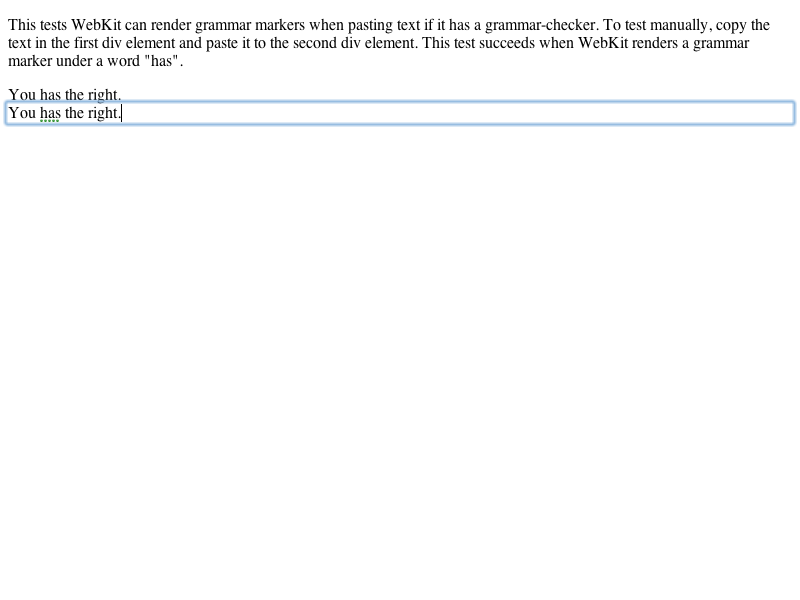
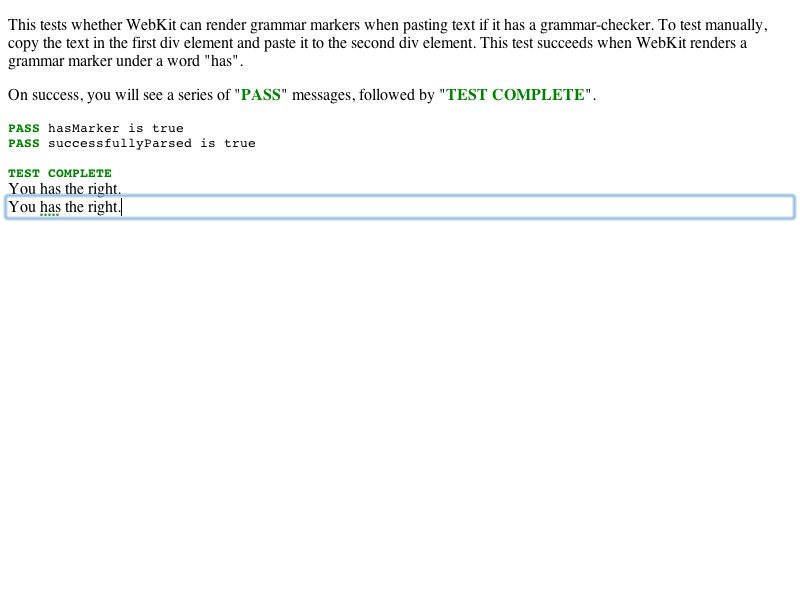
grammar-markers.html and grammar-markers-hidpi.html pass even if element does not have grammar marker https://bugs.webkit.org/show_bug.cgi?id=119797
Reviewed by Ryosuke Niwa.

After tenth attempts of verifying the grammar marker, the tests call'notifyDone'
even if grammar marker was not be found.

Both grammar-marker.html and grammar-marker-hidpi.html call the text checker
asynchronously. Therefore, we need to wait until either the grammar marker
is found or number of attempts is reached.

Dump more information whether the grammar marker was found to be sure that
the tests do not pass when the element does not have the marker.

* editing/spelling/grammar-markers-expected.txt:
* editing/spelling/grammar-markers-hidpi-expected.txt:
Update the expectations.

* editing/spelling/grammar-markers-hidpi.html:
* editing/spelling/grammar-markers.html:
Dump more information.
Additionally, pass 'document' to hasGrammarMarker instead of
'target' as the method does not work for target/source elements.

* platform/mac/editing/spelling/grammar-markers-expected.png:
* platform/mac/editing/spelling/grammar-markers-hidpi-expected.png: Added.
Update the expectations for Mac.

Identifier: 138321@main
git-svn-id: https://svn.webkit.org/repository/webkit/trunk@154675 268f45cc-cd09-0410-ab3c-d52691b4dbfc

Changed region(s): [[0.0, 0.15, 1.0, 0.39], [0.0, 0.03, 0.9688, 0.12]]

diff --git a/LayoutTests/editing/spelling/grammar-markers.html b/LayoutTests/editing/spelling/grammar-markers.html
@@ -1,16 +1,24 @@
 <!DOCTYPE html>
 <html>
+<head>
+<script src="../../fast/js/resources/js-test-pre.js"></script>
+</head>
 <body>
-<p>This tests WebKit can render grammar markers when pasting text if it has a grammar-checker. To test manually, copy the text in the first div element and paste it to the second div element. This test succeeds when WebKit renders a grammar marker under a word "has".</p>
 <div id="source" contenteditable="true" spellcheck="false">You has the right.</div>
 <div id="target" contenteditable="true" spellcheck="true"></div>
+
 <script>
+description('This tests whether WebKit can render grammar markers when pasting text if it has a grammar-checker. To test manually, copy the text in the first div element and paste it to the second div element. This test succeeds when WebKit renders a grammar marker under a word "has".');
+
+if (window.internals) {
+    window.jsTestIsAsync = true;
+    internals.settings.setAsynchronousSpellCheckingEnabled(true);
+}
+
 if (window.testRunner) {
     testRunner.waitUntilDone();
     testRunner.dumpAsText(true);
 }
-if (window.internals)
-    internals.settings.setAsynchronousSpellCheckingEnabled(true);
 
 var source = document.getElementById('source');
 window.getSelection().selectAllChildren(source);
@@ -19,17 +27,29 @@ var target = document.getElementById('target');
 window.getSelection().selectAllChildren(target);
 document.execCommand('Paste');
 
-var retry = 10;
-function trial() {
-    var hasMarker = internals.hasGrammarMarker(target, 4, 3);
-    if (hasMarker || --retry == 0) {
-        if (window.testRunner)
-            testRunner.notifyDone();
+var retryCount = 10;
+var sleepPeriod = 1;
+var ungrammaticalPhrase = 'has';
+var hasMarker;
+function verifyMarker() {
+    hasMarker = internals.hasGrammarMarker(document, target.innerHTML.indexOf(ungrammaticalPhrase), ungrammaticalPhrase.length);
+    if (!hasMarker && --retryCount > 0) {
+        sleepPeriod *= 2;
+        window.setTimeout(verifyMarker, sleepPeriod);
         return;
     }
-    window.setTimeout(trial, 10);
+
+    shouldBeTrue('hasMarker');
+
+    if (window.testRunner) {
+        finishJSTest();
+        testRunner.notifyDone();
+    }
 };
-trial();
+
+window.setTimeout(verifyMarker, sleepPeriod);
+
 </script>
+<script src="../../fast/js/resources/js-test-post.js"></script>
 </body>
 </html>

diff --git a/LayoutTests/editing/spelling/grammar-markers-hidpi.html b/LayoutTests/editing/spelling/grammar-markers-hidpi.html
@@ -1,17 +1,45 @@
 <!DOCTYPE html>
 <html>
+<head>
+<script src="../../fast/js/resources/js-test-pre.js"></script>
+</head>
 <body>
-<p>This tests WebKit can render grammar markers when pasting text if it has a grammar-checker. To test manually, copy the text in the first div element and paste it to the second div element. This test succeeds when WebKit renders a grammar marker under a word "has".</p>
 <div id="source" contenteditable="true" spellcheck="false">You has the right.</div>
 <div id="target" contenteditable="true" spellcheck="true"></div>
+
 <script>
-if (window.internals)
+description('This tests whether WebKit can render grammar markers when pasting text if it has a grammar-checker. To test manually, copy the text in the first div element and paste it to the second div element. This test succeeds when WebKit renders a grammar marker under a word "has".');
+
+if (window.internals) {
+    window.jsTestIsAsync = true;
     internals.settings.setAsynchronousSpellCheckingEnabled(true);
+}
+
+var retryCount = 10;
+var sleepPeriod = 1;
+var ungrammaticalPhrase = 'has';
+var hasMarker;
+function verifyMarker() {
+    hasMarker = internals.hasGrammarMarker(document, target.innerHTML.indexOf(ungrammaticalPhrase), ungrammaticalPhrase.length);
+    if (!hasMarker && --retryCount > 0) {
+        sleepPeriod *= 2;
+        window.setTimeout(verifyMarker, sleepPeriod);
+        return;
+    }
+
+    shouldBeTrue('hasMarker');
+
+    if (window.testRunner) {
+        finishJSTest();
+        testRunner.notifyDone();
+    }
+};
+
 if (window.testRunner) {
     testRunner.waitUntilDone();
     testRunner.dumpAsText(true);
     testRunner.setBackingScaleFactor(2, function () {
-        trial();
+        verifyMarker();
     });
 }
 
@@ -22,16 +50,7 @@ var target = document.getElementById('target');
 window.getSelection().selectAllChildren(target);
 document.execCommand('Paste');
 
-var retry = 10;
-function trial() {
-    var hasMarker = internals.hasGrammarMarker(target, 4, 3);
-    if (hasMarker || --retry == 0) {
-        if (window.testRunner)
-            testRunner.notifyDone();
-        return;
-    }
-    window.setTimeout(trial, 10);
-};
 </script>
+<script src="../../fast/js/resources/js-test-post.js"></script>
 </body>
 </html>
